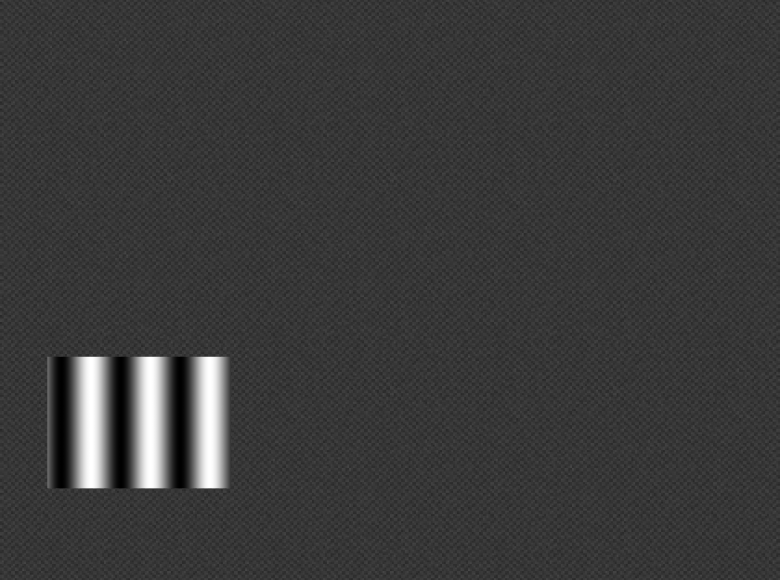
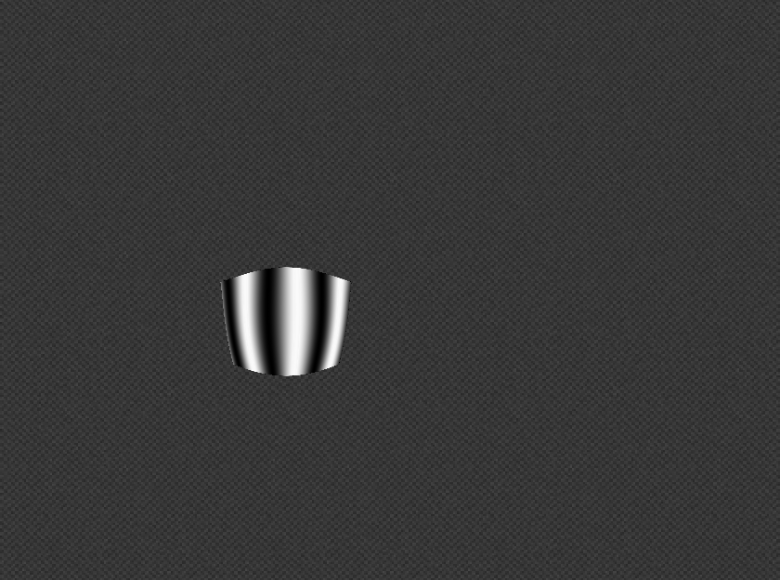
Fixed black box in cartography simulation, Added speration of X/Y

Changed region(s): [[0.0615, 0.4345, 0.4615, 0.869]]

diff --git a/TheoUnwraping/PythonScripts/warpWithDisplacement.py b/TheoUnwraping/PythonScripts/warpWithDisplacement.py
@@ -1,13 +1,15 @@
 import numpy as np
 import cv2
+import random as rd
 from skimage.io import imread, imsave
+
 
 distCoeff = np.zeros((8,1),np.float64)
 
 # TODO: add your coefficients here!
-k1 = 0.0;
+k1 = 2e-4;
 k2 = 0.0;
-p1 = 0.0;
+p1 = 2e-3;
 p2 = 0.0;
 k3 = 0.0;
 k4 = 0.0;
@@ -23,18 +25,17 @@ distCoeff[5,0] = k4;
 distCoeff[6,0] = k5;
 distCoeff[7,0] = k6;
 
+grey = imread("../refImages/grey.png")
+
 #-Offset
-x_off = 50
-y_off = 400
-
-#-Inset
-x_in = 1 # ALWAYS >=1
-y_in = x_in
-
+x_off = rd.randrange(0,grey.shape[1]-150, 1)
+y_off = rd.randrange(0,grey.shape[0]-200, 1)
 
 for i in range(24):
     
-    src    = imread("fringes/fringes_{:03d}.png".format(i))
+    src = imread("../fringes/fringes_{:03d}.png".format(i))
+
+    src[src<250] += 5
     
     print("fringes_{:03d}.png".format(i) + "-->" + "dstFringes_{:03}.png".format(i))
     
@@ -50,18 +51,26 @@ for i in range(24):
     cam[1,1] = 10.        # define focal length y
 
     dst = cv2.undistort(src,cam,distCoeff)
-   
+
     dst = cv2.resize(dst,(200,150))
 
-    grey = imread("refImages/grey.png")
-    grey[y_off+y_in:y_off+dst.shape[0]-y_in, x_off+x_in:x_off+dst.shape[1]-x_in] = dst[y_in:-y_in, x_in:-x_in]
+    grey = imread("../refImages/grey.png")
+
+    for j in range(1,dst.shape[0]-1):
+        for k in range(1,dst.shape[1]-1):
+            #if( ( dst[j-1,k] + dst[j+1,k] + dst[j,k+1] + dst[j,k-1] ) > 0 ):
+            if(dst[j,k] > 4):
+                grey[j+y_off,k+x_off] = dst[j,k]-5
+
+
+    #grey[y_off+y_in:y_off+dst.shape[0]-y_in, x_off+x_in:x_off+dst.shape[1]-x_in] = dst[y_in:-y_in, x_in:-x_in]
 
     grey = cv2.resize(grey, (780,580))
     
 
     #cv2.imshow('grey', grey)
 
-    imsave("thScan/dstFringes_{:03d}.png".format(i), grey)
+    imsave("../thScan/dstFringes_{:03d}.png".format(i), grey)
 
     cv2.waitKey(0)
 

diff --git a/TheoUnwraping/PythonScripts/warpNoDisplacement.py b/TheoUnwraping/PythonScripts/warpNoDisplacement.py
@@ -7,7 +7,7 @@ distCoeff = np.zeros((8,1),np.float64)
 # TODO: add your coefficients here!
 k1 = 0.0;
 k2 = 0.0;
-p1 = 1e-4;
+p1 = 0.0;
 p2 = 0.0;
 k3 = 0.0;
 k4 = 0.0;
@@ -31,9 +31,9 @@ x_in = 50
 y_in = x_in
 
 
-for i in range(int(input("Number for paterns? "))):
+for i in range(24):
     
-    src    = imread("fringes/fringes_{:03d}.png".format(i))
+    src    = imread("../fringes/fringes_{:03d}.png".format(i))
     print("fringes_{:03d}.png".format(i) + "-->" + "dstFringes_{:03}.png".format(i)) 
     #-Define image caracteristics
     width  = src.shape[1]
@@ -50,7 +50,7 @@ for i in range(int(input("Number for paterns? "))):
    
     #cv2.imshow('dst', dst)
 
-    imsave("thScan/dstFringes_{:03d}.png".format(i), dst)
+    imsave("../thScan/dstFringes_{:03d}.png".format(i), dst)
 
     #cv2.waitKey(0)
 

diff --git a/TheoUnwraping/PythonScripts/seperateXY.py b/TheoUnwraping/PythonScripts/seperateXY.py
@@ -1,0 +1,45 @@
+
+import matplotlib.pyplot as plt
+import numpy as np
+import cv2
+from skimage.io import imread, imsave
+import seaborn as sns
+
+#-Camera Parameters
+x_res = 1000
+y_res = 800
+
+#-Importing cartography
+cam = cv2.imread("../cam_match.png")
+
+#-Green channel
+g = cam.copy()
+g[:,:,0] = 0
+g[:,:,2] = 0
+
+#-Blue channel
+b = cam.copy()
+b[:,:,0] = 0
+b[:,:,1] = 0
+
+cv2.imshow("Green channel", g)
+cv2.imwrite("../cam_y.png", g)
+cv2.waitKey(0)
+
+cv2.imshow("Blue channel", b)
+cv2.imwrite("../cam_x.png", b)
+cv2.waitKey(0)
+
+#-Pixel to Pixel cartography
+
+cam = cam.astype('float64')
+
+plt.figure()
+axy = sns.heatmap(cam[:,:,1]*y_res/255, cmap="jet")
+
+plt.figure()
+axx = sns.heatmap(cam[:,:,2]*x_res/255, cmap="jet")
+
+plt.show()
+
+
